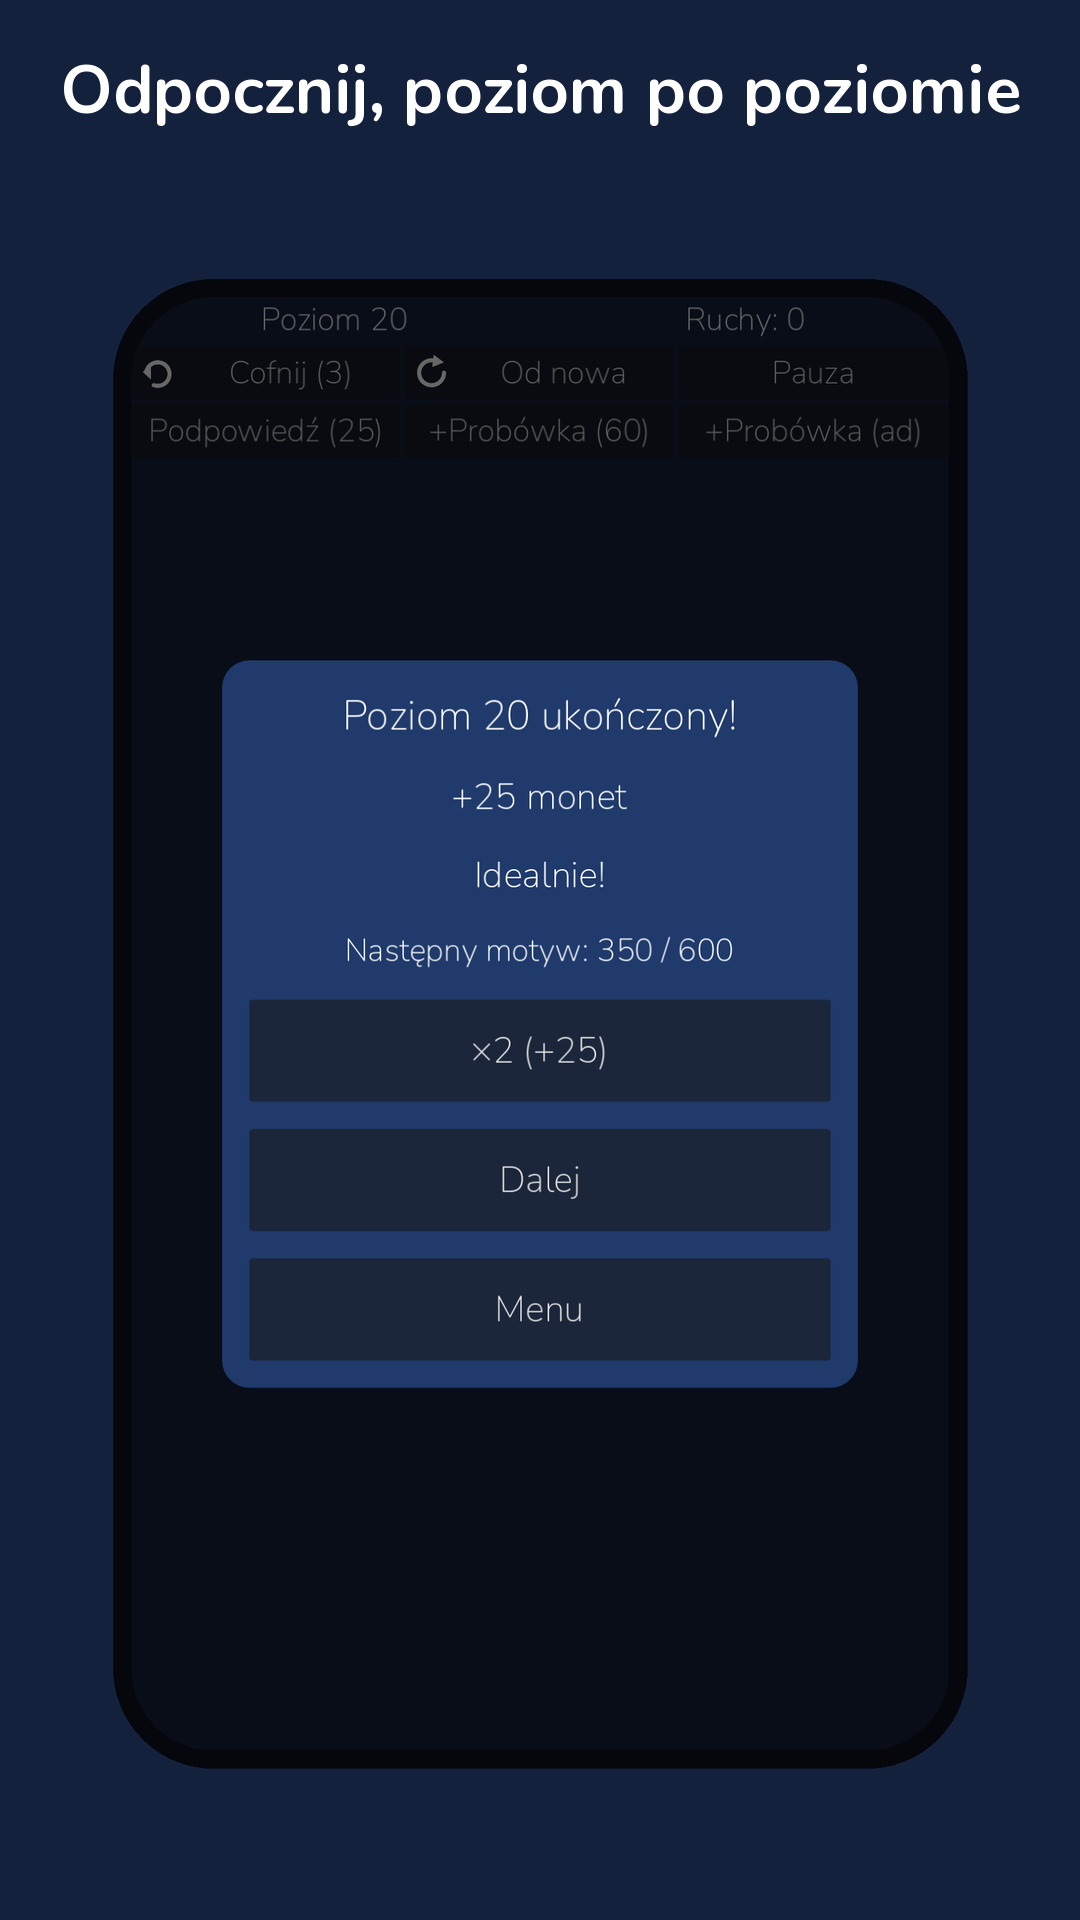
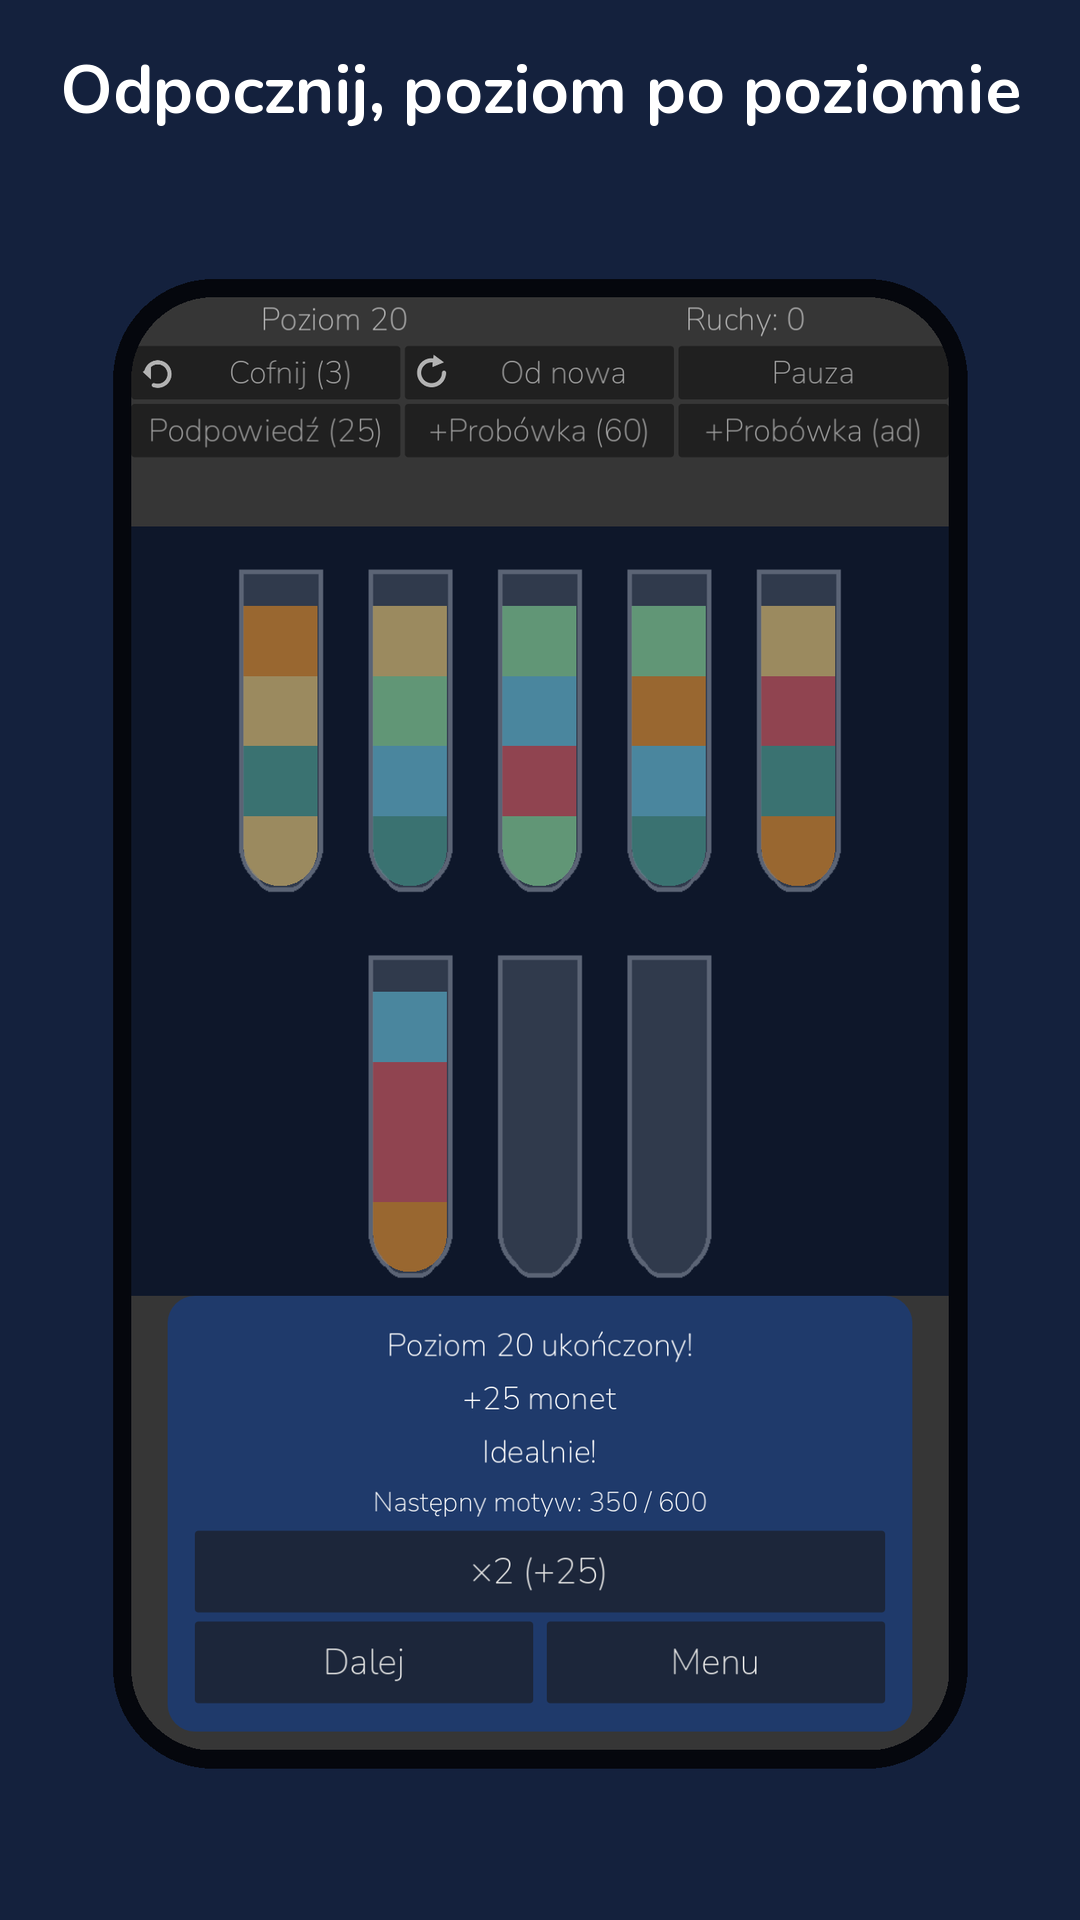
feat(T-111): LevelComplete kompaktowy przy dolnej krawędzi + plansza nad panelem (kadr 02 z widocznymi probówkami) (#97)
* chore(T-111): start

Claude-Session: https://claude.ai/code/session_015yGikLBi35AFjSSnUGPQFi

* feat(T-111): LevelComplete kompaktowy przy dolnej krawędzi, plansza dopasowana nad panelem (fit_board_above_panel), Dim 0.3, kadr 02 ×3

Claude-Session: https://claude.ai/code/session_015yGikLBi35AFjSSnUGPQFi

* chore(T-111): status review → PR #97, LOG, Inbox T-117, pytanie Dim 0.3

Claude-Session: https://claude.ai/code/session_015yGikLBi35AFjSSnUGPQFi

---------

diff --git a/BACKLOG.md b/BACKLOG.md
@@ -42,7 +42,7 @@ Pętla bierze pierwsze `todo` z najwyższej sekcji. Zadania P0 muszą być `done
   KA: `Home` dostaje `daily_total_label` (w karcie Poziomu dnia, `tr("home_daily_total") % state.daily_completed_total`, ukryty przy 0) i `streak_best_label` (`tr("home_streak_best") % state.streak_best`, widoczny gdy `streak_best >= 2`), odświeżane w `refresh()`. Klucze w `strings.csv` EN/PL/DE (PROPOZYCJA: „Completed: %d” / „Ukończone: %d” / „Geschafft: %d”; „Best: %d” / „Rekord: %d” / „Rekord: %d” — DE dopisać do `SAME_AS_EN`, jeśli test „≠ EN” tego wymaga, z komentarzem). Fixture `aso_home` w `ScreenshotFixtures`: `daily_completed_total = 23`, `streak_best = 12`, `streak_days = 5`. Testy gdUnit4 ≥ 3 (0 → etykieta ukryta; 23 → tekst zawiera „23”; `streak_best` 1 → ukryta, 12 → widoczna). `make screenshots` → kadr 03 ×3 locale odświeżony i obejrzany (PL), etykiety nie wychodzą poza kartę 720 px. `make check` zielone. ≤ ~60 linii + PNG.
   Skill: `godot-dev`
 
-- [ ] T-111 `todo` Kadr sklepowy 02 (`aso_win`): plansza widoczna nad panelem LevelComplete — panel kompaktowy przy dolnej krawędzi (przeniesione z Inbox T-105; KPI store conversion ≥ 25 %; zależy od T-108 i T-101 — ten sam ekran wygranej)
+- [ ] T-111 `review` Kadr sklepowy 02 (`aso_win`): plansza widoczna nad panelem LevelComplete — panel kompaktowy przy dolnej krawędzi (przeniesione z Inbox T-105; KPI store conversion ≥ 25 %; zależy od T-108 i T-101 — ten sam ekran wygranej) → PR #97
   KA: panel `LevelComplete` zakotwiczony do dołu ekranu, wysokość ≤ 50 % viewportu (≤ 640 px przy 720×1280), treść bez zmian (monety, premia, ×2, „Dalej”, komunikat T-096); konfetti (T-097) nadal nad planszą i pod panelem. Test gdUnit4 ≥ 1 w scenie `Level` 720×1280 z fixture `aso_win`: `level_complete` panel `get_global_rect()` nie przecina prostokąta obejmującego probówki `BoardView` i ma `size.y <= 640`. `make screenshots` → kadr 02 ×3 locale odświeżony; na PL widać ≥ 80 % probówek (opis + ogląd w PR). `make playtest` 200/200 bez softlocka (ekran wygranej nadal działa). `make check` zielone. ≤ ~60 linii + PNG.
   Skill: `aso`
 
@@ -89,6 +89,7 @@ Pętla bierze pierwsze `todo` z najwyższej sekcji. Zadania P0 muszą być `done
 ## P3 — polish / later
 
 ## Inbox (nieprzeanalizowane — przegląd w cotygodniowym refreshu)
+- [ ] T-117 `todo` LevelComplete (po T-111): `panel_height()` zwraca stały `-offset_top` — gdy treść (np. długi komunikat T-096 po zawinięciu) przekroczy ~384 px, `PanelContainer` rośnie w górę i nachodzi na probówki; rozważyć `maxf(-offset_top, get_combined_minimum_size().y + margines)` + test `BoardView.content_height()` (1 i 2 rzędy) + `_reset_board_fit()` także w `restart()`; `level.tscn` Hud `offset_bottom = 150` vs `hud.gd` `BAR_HEIGHT = 230` — ujednolicić (odkryte w T-111). Skill: godot-dev
 - [ ] T-092 `todo` Skill godot-test §6: format `playtest.json` o pole `interstitial_calls` (T-084) i `playtest_random.json`; `AdService`: publiczny reset `_last_interstitial_s` (test bota ustawia pole prywatne `-INF`, bo realny zegar z innych suit blokuje pokaz przy symulowanym zegarze) (odkryte w T-084). Skill: godot-test
 - [ ] T-089 `todo` Skill godot-test (dotyczy `.claude/`): wzorzec testów parametryzowanych (gdlint `unused-argument` dla `test_parameters`, gdUnit opróżnia tablicę w trakcie — działa `assert_that(test_parameters).is_not_null()`) (odkryte w T-081; część kodowa `min_moves` → T-098). Skill: godot-test
 
@@ -134,6 +135,7 @@ Pętla bierze pierwsze `todo` z najwyższej sekcji. Zadania P0 muszą być `done
 - Refill #6 (T-115): symbole kolorów (dostępność) awansowane z „later” do MVP — przyjęto: tak, domyślnie wyłączone (przełącznik w Settings), symbol zależy od indeksu koloru, nie od motywu; do zmiany (alternatywa: domyślnie włączone albo pytanie w FTUE).
 - Refill #6 (T-109): popup nagrody dziennej po powrocie z tła po północy UTC — przyjęto: tylko gdy aplikacja wraca na `Home`; w trakcie rundy (`Level`) nie przerywamy gry, popup pojawi się przy następnym wejściu na `Home`; do zmiany.
 - Refill #6 (T-111): kadr sklepowy 02 — przyjęto: panel LevelComplete kompaktowy przy dolnej krawędzi także w grze (nie tylko w fixture kadru), żeby screenshot pokazywał prawdziwy ekran; do zmiany (alternatywa: specjalny układ tylko w trybie `--screenshot` — szybciej, ale kadr przestaje odpowiadać grze, ryzyko odrzucenia za mylące screenshoty).
+- T-111: `Dim` ekranu wygranej przyciemniony do alfa 0,3 (było 0,6), żeby plansza była widoczna pod panelem także w grze — przyjęto: 0,3, do zmiany.
 
 ## Done (ostatnie 30)
 - [x] T-057 `done` Screenshoty: fixture „pre-win” dla LevelComplete — realne wartości zamiast „+0 coins” (przeniesione z Inbox) → PR #58 (zmergowany 2026-10-24)

diff --git a/docs/LOG.md b/docs/LOG.md
@@ -161,3 +161,4 @@ Godot 4.4.1 → 4.7.2, gdUnit4 → v7, target API 36 (ADR-008). make check zielo
 - P1: T-108 — `ScreenshotArgs` `--now=<unix>` (domyślnie `SCREENSHOT_NOW_UNIX` 1792843200, walidacja nieujemnej liczby), `main.gd._run_screenshot` liczy `today` z `now` i ustawia `app.clock` na stały Callable; 3 testy (397 gdUnit4); `make screenshots` 2× → 15 PNG identyczne sha256. Ustalenie: `03_daily` zmieniał się przez licznik „do północy” z zegara systemowego; `05_themes` PL/DE nie był niedeterministyczny — zacommitowane PNG były sprzed T-080 (angielskie nazwy motywów), regeneracja. QA PASS (3 seedy 200/200) → PR #94 (auto-merge).
 - P1: T-109 — `Level.resume_clock()` + `App._on_focus_in()` (Level → resume_clock, Home → refresh + popup nagrody po północy UTC); nowa suita `test_app_focus.gd` (4 testy z zegarem, 398 gdUnit4; bez poprawki test (1) pada — kontrola negatywna QA); GDD `level_complete` (czas w tle niewliczany). QA PASS (3 seedy 200/200) → PR #95 (auto-merge). #94 zmergowany w trakcie sesji.
 - P1: T-110 — `Home.daily_total_label` („Ukończone: N”, ukryta przy 0) i `streak_best_label` („Rekord: N”, widoczna od 2, `STREAK_BEST_MIN_VISIBLE`), klucze EN/PL/DE, fixture `aso_home` (23/12/5), kadr 03 ×3 (tylko te PNG się zmieniły — stały zegar z T-108 działa); 4 testy (401 gdUnit4). QA PASS → PR #96 (auto-merge). #95 zmergowany w trakcie sesji.
+- P1: T-111 — panel `LevelComplete` przy dolnej krawędzi (~400 px, „Dalej”+„Menu” w HBox, Dim 0,3), `Level.fit_board_above_panel()` (plansza nad panelem; 3 rzędy bez zmian) + `_reset_board_fit()` w `_bind_round`, `BoardView.content_height()`, `LevelComplete.panel_height()/panel_rect()`; test w `test_level_flow.gd` (402 gdUnit4); kadr 02 ×3: 8/8 probówek widocznych. Uwaga: HUD ma 230 px (`hud.gd`), nie 150 z `.tscn`. QA PASS → PR #97 (auto-merge). Inbox: T-117 (sugestie QA). #96 zmergowany w trakcie sesji.
